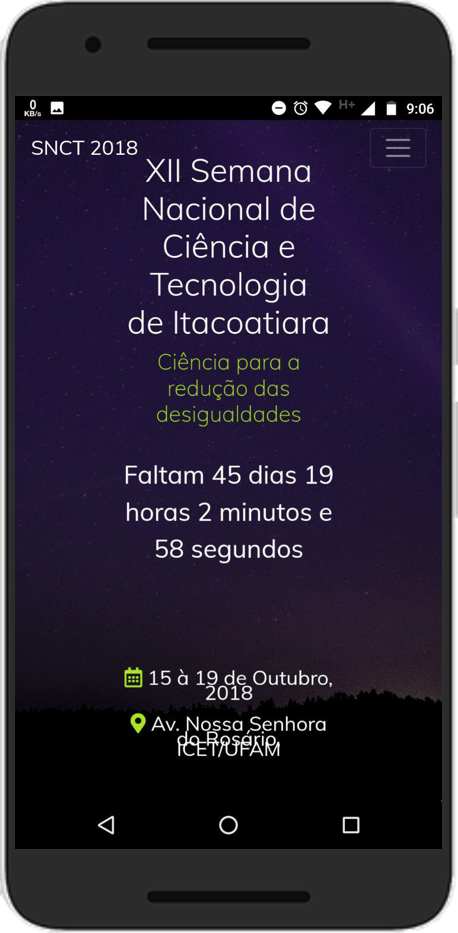
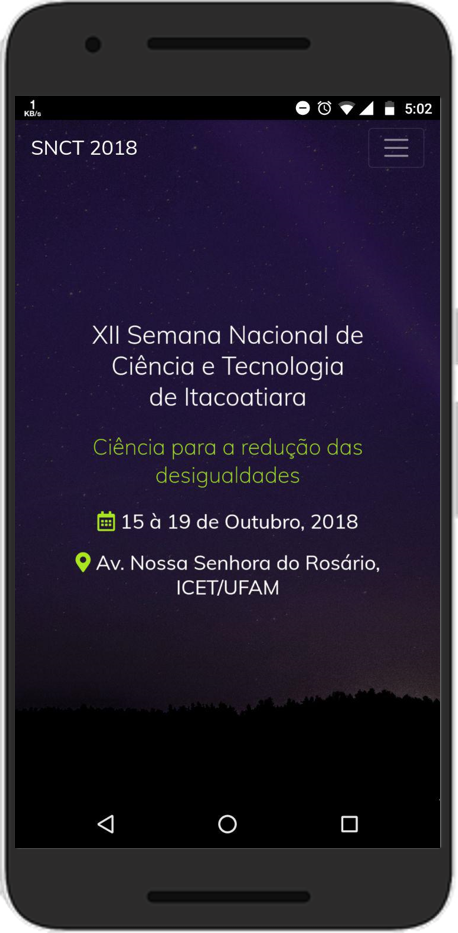
Primeira versão, aguardando aprovação

diff --git a/index.html b/index.html
@@ -89,10 +89,6 @@
             O principal Objetivo deste evento é fazer com que a ciência e a tecnologia, temas que parecem tão distantes alem da compreensão,
             estejam mais próximos do publico geral.
           </p>
-          <div class="button">
-            <a href="#" class="btn btn-primary btn-lg">Faça sua inscrição aqui</a>
-          </div>
-
           <div id="social">
             <p><i class="fab fa-facebook"></i> snct2018.icet</p>
             <p><i class="fab fa-instagram"></i> snct2018.icet</p>
@@ -134,20 +130,13 @@
   </section>
   <section id="programacao">
     <div class="container">
-      <div class="row">
-        <div class="col-md-6">
-          <h1 class="section-header">Programação</h1>
-          <p>A programação do evento ainda não está disponível, mas você pode enviar sugestões de ativadades para a nossa
-            comissão organizadora.
-          </p>
-          <div class="text-center">
-            <p>Clique no ícone abaixo para enviar sugestões de atividades</p>
-            <a href="#"><i class="fas fa-clipboard-list"></i></a>
-          </div>
-        </div>
-        <div class="col-md-6" id="bg-icet">
-
-        </div>
+      <h1 class="section-header">Programação</h1>
+      <p>A programação do evento ainda não está disponível, mas você pode enviar sugestões de ativadades para a nossa comissão
+        organizadora.
+      </p>
+      <div class="text-center">
+        <p>Clique no ícone abaixo para enviar sugestões de atividades</p>
+        <a href="#"><i class="fas fa-clipboard-list"></i></a>
       </div>
     </div>
   </section>
@@ -158,7 +147,7 @@
           <div class="container">
             <h1 class="section-header">Inscrições</h1>
             <p>As inscrições para a SNCT 2018 de 30/08/2018 até 01/09/2018, clique no botão abaixo e preencha o formulário
-              para realizar sua de inscrição</p>
+              para realizar sua inscrição</p>
             <div class="button text-center">
               <a href="#" class="btn btn-primary btn-lg">Faça sua inscrição aqui</a>
             </div>
@@ -214,22 +203,58 @@
       <div class="row">
         <div class="col-md-6">
           <h1 class="section-header">Organização</h1>
-          <p>Lorem ipsum dolor sit amet consectetur adipisicing elit. Obcaecati vitae corrupti voluptatum incidunt laudantium
-            modi, delectus cupiditate quis iure, officiis debitis natus tempora velit? Quae natus ipsa sint assumenda fugiat.</p>
-          <p>Lorem ipsum dolor sit amet consectetur adipisicing elit. Obcaecati vitae corrupti voluptatum incidunt laudantium
-            modi, delectus cupiditate quis iure, officiis debitis natus tempora velit? Quae natus ipsa sint assumenda fugiat.</p>
-          <p>Lorem ipsum dolor sit amet consectetur adipisicing elit. Obcaecati vitae corrupti voluptatum incidunt laudantium
-            modi, delectus cupiditate quis iure, officiis debitis natus tempora velit? Quae natus ipsa sint assumenda fugiat.</p>
+          <div class="row">
+            <div class="col-md-6">
+              <p class="title">Coordenação Geral</p>
+              <p>Prof. Hidelbrando Ferreira Rodrigues</p>
+              <p class="title">Vice Coordenação</p>
+              <p>Prof. Fábio Medeiros Ferreira</p>
+              <p class="title">Membros</p>
+              <p>Prof. Myses Batista de Araujo Junior</p>
+              <p class="title">Subcomissão Administrativa</p>
+              <p>Prof. Rute Holanda Lopes</p>
+              <p class="title">Membros</p>
+              <p>Prof. Ana Daniella Simões</p>
+              <p>Prof. Fernanda Mello Ferray</p>
+              <p>Prof. Renata de Oliveira Teixeira</p>
+              <p class="title">Membros CITA IFAM</p>
+              <p>Prof. Andrey Luis Brunys de Souza</p>
+              <p>Prof. Sarah Ragonha de Oliveira</p>
+              <p class="title">Comitê Científico</p>
+              <p>Prof. Odete Mestrinho Passos</p>
+
+            </div>
+            <div class="col-md-6">
+              <p class="title">Membros Subcomissão de Tecnologia</p>
+              <p>Tec. Hellen Carmen Ferreira Rebouças</p>
+              <p class="title">Membros</p>
+              <p>Prof. Heloiza Chaves Pinto</p>
+              <p>Prof. Alan Sérgio Mazzari</p>
+              <p>Téc. Adriana Soares Belém</p>
+              <p class="title">Subcomissão de Tecnologia</p>
+              <p>Prof. Vandermi João da Silva</p>
+              <p class="title">Membros</p>
+              <p>Prof. Bruno Ferrezin Morales</p>
+              <p class="title">Membros SEMED/SEDUC</p>
+              <p>Prof. Ronise Simões da Silva</p>
+              <p>Prof. Alcilene Dias de Souza</p>
+            </div>
+          </div>
         </div>
         <div class="col-md-6">
           <h1 class="section-header">Parceiros</h1>
-          <embed class="img-parceiros" src="./assets/images/forma_Fapeam.svg" alt="FAPEAM">
+          <div class="parceiros-div">
+            <embed class="img-parceiros" src="./assets/images/forma_Fapeam.svg" alt="FAPEAM">
+          </div>
+
           <h1 class="section-header">Realização</h1>
-          <embed class="img-parceiros" src="./assets/images/forma_Ufam.svg" alt="UFAM">
-          <embed class="img-parceiros" src="./assets/images/forma_Ifam.svg" alt="IFAM">
-          <embed class="img-parceiros" src="./assets/images/forma_Icet.svg" alt="ICET">
-          <embed class="img-parceiros" src="./assets/images/forma_Seduc.svg" alt="SEDUC">
-          <embed class="img-parceiros" src="./assets/images/forma_Prefeitura.svg" alt="PREFEITURA">
+          <div class="parceiros-div">
+            <embed class="img-parceiros" src="./assets/images/forma_Ufam.svg" alt="UFAM">
+            <embed class="img-parceiros" src="./assets/images/forma_Ifam.svg" alt="IFAM">
+            <embed class="img-parceiros" src="./assets/images/forma_Icet.svg" alt="ICET">
+            <embed class="img-parceiros" src="./assets/images/forma_Seduc.svg" alt="SEDUC">
+            <embed class="img-parceiros" src="./assets/images/forma_Prefeitura.svg" alt="PREFEITURA">
+          </div>
         </div>
       </div>
     </div>

diff --git a/assets/css/style.css b/assets/css/style.css
@@ -3,10 +3,6 @@ body {
   font-family: 'Muli', sans-serif;
   background-color: #f4f4f4;
 }
-
-section {
-  min-height: 100vh;
-}
 .section-header {
   text-align: center;
   margin: 30px 0;
@@ -21,11 +17,11 @@ section {
   background-size: cover;
   background-repeat: no-repeat;
   background-position: center;
-  /* height: 100vh; */
   width: 100%;
   position: relative;
   resize: vertical;
   overflow: auto;
+  height: 100vh !important;
 }
 #nav {
   transition: 0.5s;
@@ -110,10 +106,20 @@ section {
   text-align: center;
 }
 #organizacao {
-  text-align: center;
+  text-align: justify;
 }
+#organizacao .title {
+  font-weight: bold;
+}
+#organizacao p {
+  font-size: 14px;
+}
+
 .img-parceiros {
-  margin: 10px 30px;
+  margin: 12px 30px;
+}
+.parceiros-div {
+  text-align: center;
 }
 #app img {
   margin: 15px auto;
@@ -136,5 +142,23 @@ footer {
   }
   section {
     min-height: 100% !important;
+  }
+  .content {
+    width: 80%;
+  }
+  .content h2,
+  .content h3,
+  #info {
+    line-height: normal;
+    margin: 20px 0;
+  }
+  .content h2 {
+    font-size: 25px;
+    width: 100%;
+  }
+  #timer {
+    margin: 0;
+    /* display: none; */
+    font-size: 18px;
   }
 }
